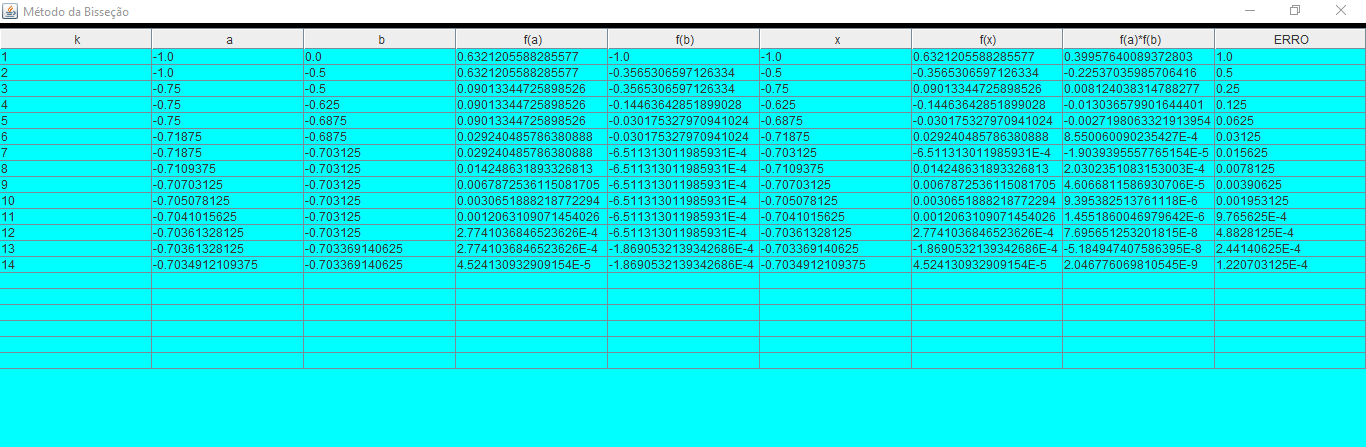
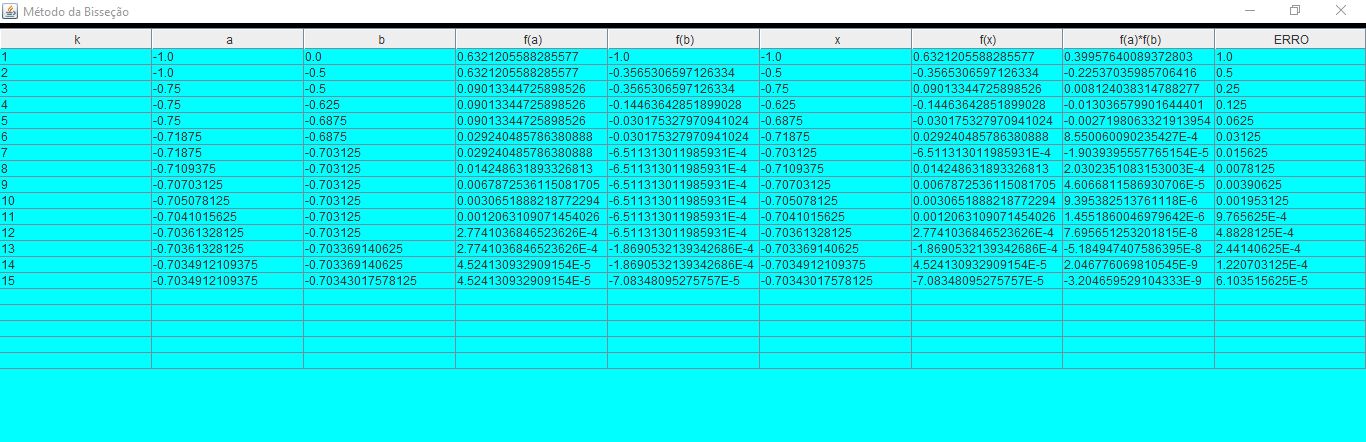
mudação de como os metodos do pacote entidade trabalham e atualização dos graficos e qtde de interações

Changed region(s): [[0.0, 0.0294, 1.0, 0.6471], [0.0, 0.6765, 1.0, 0.7647], [0.0, 0.8235, 1.0, 0.8529]]

diff --git a/Codigo/src/metodos/entidades/MetodoFalsaPosicao.java b/Codigo/src/metodos/entidades/MetodoFalsaPosicao.java
@@ -32,6 +32,21 @@ public class MetodoFalsaPosicao extends MetodoEncontrarRaiz{
 		this.linha = 0;
 		while(getErro() > getPrecisao() && getInteracoes() > getContador()) {
 			this.coluna = 0;
+				
+			if(getContador() > 1) {
+				setTemp(getRaiz());
+				setRaiz((getInterA() * funcao(getInterB()) - getInterB() * funcao(getInterA())) / (funcao(getInterB()) - funcao(getInterA())));
+				
+				setErro(Math.abs((getRaiz() - getTemp())));
+					
+				if(funcao(getInterA()) * funcao(getRaiz()) < 0) {
+					setInterB(getRaiz());
+				}
+				else {
+					setInterA(getRaiz());
+				}	
+			}
+			
 			guardaDados(getContador(), linha, coluna);
 			this.coluna++;
 			guardaDados(getInterA(), linha, coluna);
@@ -51,18 +66,7 @@ public class MetodoFalsaPosicao extends MetodoEncontrarRaiz{
 			guardaDados(getErro(), linha, coluna);
 			this.coluna++;
 			this.linha++;
-				
-			setTemp(getRaiz());
-			setRaiz((getInterA() * funcao(getInterB()) - getInterB() * funcao(getInterA())) / (funcao(getInterB()) - funcao(getInterA())));
 			
-			setErro(Math.abs((getRaiz() - getTemp())));
-				
-			if(funcao(getInterA()) * funcao(getRaiz()) < 0) {
-				setInterB(getRaiz());
-			}
-			else {
-				setInterA(getRaiz());
-			}	
 			setContador(getContador() + 1);
 		}
 		return getRaiz();	

diff --git a/Codigo/src/metodos/entidades/MetodoNewton.java b/Codigo/src/metodos/entidades/MetodoNewton.java
@@ -37,6 +37,22 @@ public class MetodoNewton extends MetodoEncontrarRaiz{
 		this.linha = 0;
 		while(getErro() > getPrecisao() && getInteracoes() > getContador()) {
 			this.coluna = 0;
+				
+			if(getContador() > 1) {
+				
+				setTemp(getRaiz());
+				setRaiz(getRaiz() - funcao(getRaiz()) / derivada(getRaiz()));
+				
+				setErro(Math.abs((getRaiz() - getTemp())));
+					
+				if(funcao(getInterA()) * funcao(getRaiz()) < 0) {
+					setInterB(getRaiz());
+				}
+				else {
+					setInterA(getRaiz());
+				}	
+			}
+			
 			guardaDados(getContador(), linha, coluna);
 			this.coluna++;
 			guardaDados(getInterA(), linha, coluna);
@@ -58,22 +74,9 @@ public class MetodoNewton extends MetodoEncontrarRaiz{
 			guardaDados(getErro(), linha, coluna);
 			this.coluna++;
 			this.linha++;
-				
-			setTemp(getRaiz());
-			setRaiz(getRaiz() - funcao(getRaiz()) / derivada(getRaiz()));
 			
-			setErro(Math.abs((getRaiz() - getTemp())));
-				
-			if(funcao(getInterA()) * funcao(getRaiz()) < 0) {
-				setInterB(getRaiz());
-			}
-			else {
-				setInterA(getRaiz());
-			}	
 			setContador(getContador() + 1);
-		}
-		
-		
+		}	
 		return getRaiz();
 	}
 }

diff --git a/Codigo/src/metodos/entidades/MetodoBissecao.java b/Codigo/src/metodos/entidades/MetodoBissecao.java
@@ -32,6 +32,20 @@ public final class MetodoBissecao extends MetodoEncontrarRaiz{
 		linha = 0;
 		while(getErro() > getPrecisao() && getInteracoes() > getErro()) {
 			coluna = 0;
+				
+			if(getContador() > 1) {
+				setTemp(getRaiz());
+				setRaiz((getInterA() + getInterB()) / 2);	
+					
+				setErro(Math.abs((getRaiz() - getTemp())));
+					
+				if((funcao(getInterA()) * funcao(getRaiz())) < 0) {
+					setInterB(getRaiz());
+				}
+				else {
+					setInterA(getRaiz());		
+				}
+			}
 			guardaDados(getContador(), linha, coluna);
 			this.coluna++;
 			guardaDados(getInterA(), linha, coluna);
@@ -51,18 +65,7 @@ public final class MetodoBissecao extends MetodoEncontrarRaiz{
 			guardaDados(getErro(), linha, coluna);
 			this.coluna++;		
 			this.linha++;
-				
-			setTemp(getRaiz());
-			setRaiz((getInterA() + getInterB()) / 2);	
-				
-			setErro(Math.abs((getRaiz() - getTemp())));
-				
-			if((funcao(getInterA()) * funcao(getRaiz())) < 0) {
-				setInterB(getRaiz());
-			}
-			else {
-				setInterA(getRaiz());		
-			}
+			
 			setContador(getContador() + 1);
 		}
 		return getRaiz();

diff --git a/Codigo/src/metodos/entidades/MetodoPontoFixo.java b/Codigo/src/metodos/entidades/MetodoPontoFixo.java
@@ -35,6 +35,21 @@ public final class MetodoPontoFixo extends MetodoEncontrarRaiz{
 		this.linha = 0;
 		while(getErro() > getPrecisao() && getInteracoes() > getContador()) {
 			this.coluna = 0;
+				
+			if(getContador() > 1) {
+				setTemp(getRaiz());
+				setRaiz(funcaoG(getTemp()));
+				
+				setErro(Math.abs((getRaiz() - getTemp())));
+					
+				if(funcao(getInterA()) * funcao(getRaiz()) < 0) {
+					setInterB(getRaiz());
+				}
+				else {
+					setInterA(getRaiz());
+				}
+			}
+			
 			guardaDados(getContador(), linha, coluna);
 			this.coluna++;
 			guardaDados(getInterA(), linha, coluna);
@@ -55,20 +70,8 @@ public final class MetodoPontoFixo extends MetodoEncontrarRaiz{
 			this.coluna++;
 			this.linha++;
 				
-			setTemp(getRaiz());
-			setRaiz(funcaoG(getTemp()));
-			
-			setErro(Math.abs((getRaiz() - getTemp())));
-				
-			if(funcao(getInterA()) * funcao(getRaiz()) < 0) {
-				setInterB(getRaiz());
-			}
-			else {
-				setInterA(getRaiz());
-			}	
 			setContador(getContador() + 1);
 		}
 		return getRaiz();	
 	}
-	
 }

diff --git a/Codigo/src/metodos/main/Menu.java b/Codigo/src/metodos/main/Menu.java
@@ -3,6 +3,8 @@ package metodos.main;
 import java.util.InputMismatchException;
 import java.util.Scanner;
 
+import metodos.entidades.MetodoEncontrarRaiz;
+
 public final class Menu {
 	public static int retornarEscolha() {
 		int escolha = -1;
@@ -28,10 +30,13 @@ public final class Menu {
 		return escolha;
 	}
 	private static void estruturaMenu() {
+		System.out.println("-------------------------------");
+		System.out.println("========== " + MetodoEncontrarRaiz.funcaoUtilizada() +" ==========");
 		System.out.println("[1]Método da Bisseção");
 		System.out.println("[2]Método da Falsa Posição");
 		System.out.println("[3]Método do Ponto Fixo");
 		System.out.println("[4]Método de Newton");
 		System.out.println("[0]Fechar Programa");
+		System.out.println("-------------------------------");
 	}
 }

diff --git a/Codigo/src/metodos/entidades/MetodoEncontrarRaiz.java b/Codigo/src/metodos/entidades/MetodoEncontrarRaiz.java
@@ -75,4 +75,8 @@ public abstract class MetodoEncontrarRaiz {
 	}
 
 	protected abstract double funcao(double x);
+	
+	public static String funcaoUtilizada() {
+		return "x^2 - e^2";
+	}
 }
